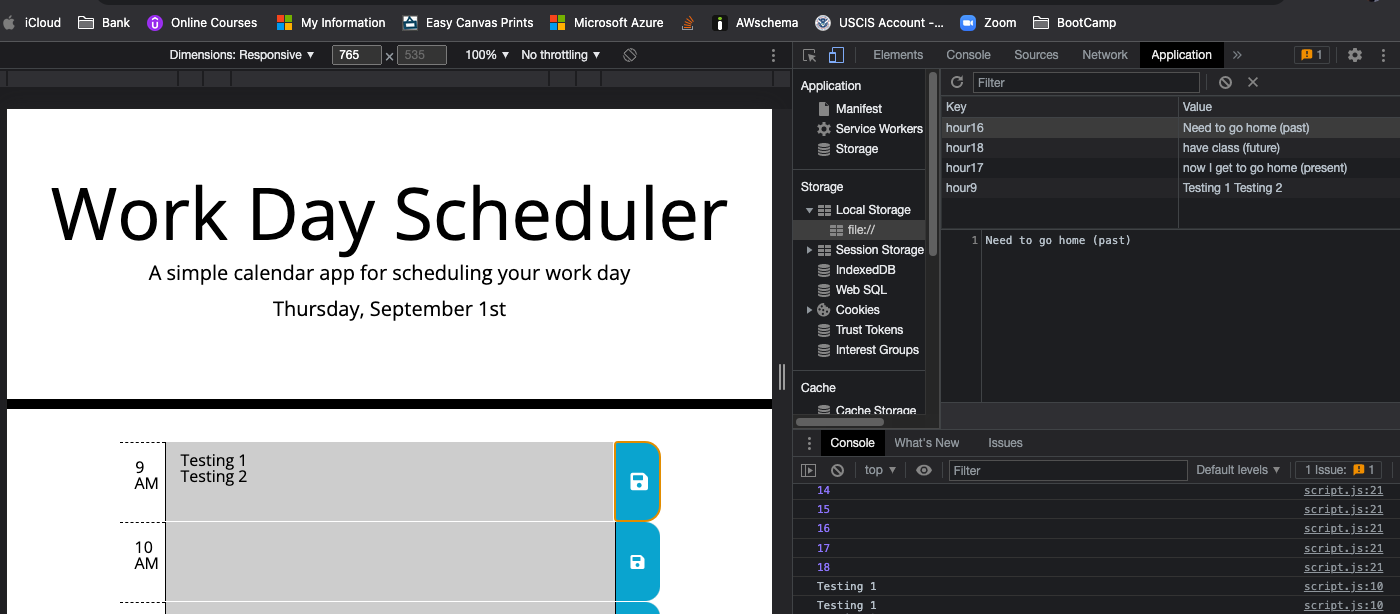
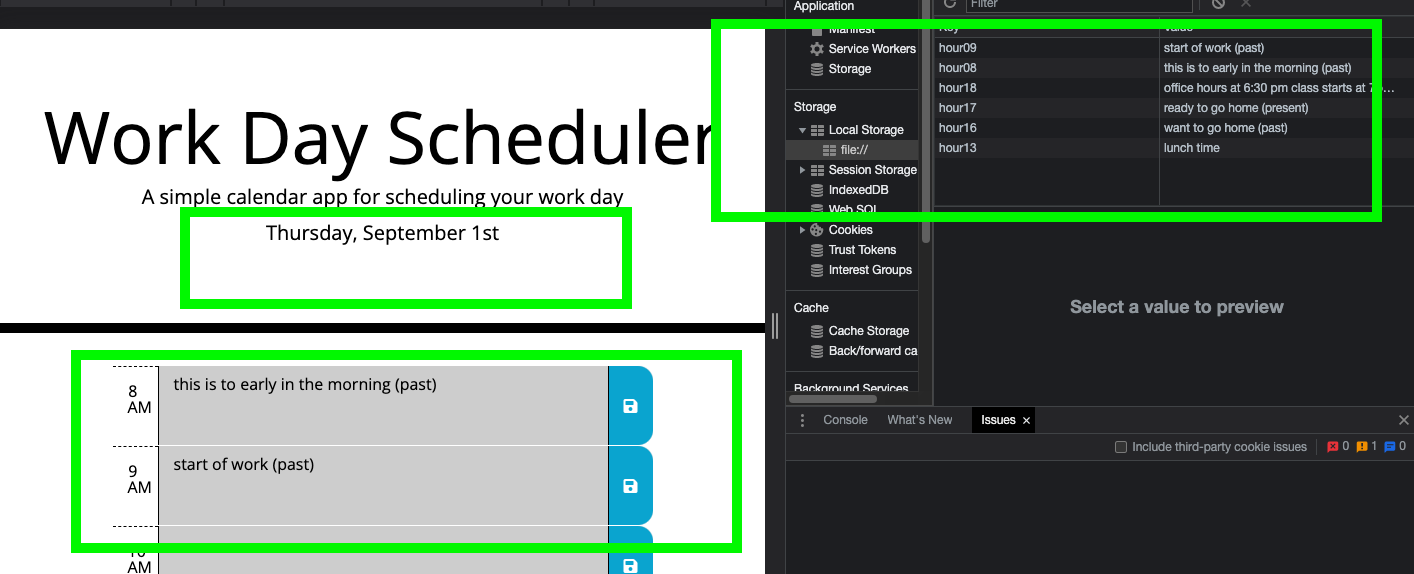
updated all notes

diff --git a/assests/js/script.js b/assests/js/script.js
@@ -6,25 +6,23 @@ $("#todayDate").text(moment().format("dddd, MMMM Do"));
 $(document).ready(function () {
   saveBtn.on("click", function () {
     // Getting values of content on textarea and time on div
-    var text = $(this).siblings(".description").val().trim();
-    console.log(text);
+    var userInput = $(this).siblings(".description").val().trim();
     var time = $(this).parent().attr("id");
     // Save to local storage
-    localStorage.setItem(time, text);
+    localStorage.setItem(time, userInput);
   });
   
   // Coloring time block based on time in comparison to current time
   function timeColorSort() {
     // Use the each() method to loop over blocks, parsing integer on id name and removing hour text with split
     $(".time-block").each(function () {
-      var blockHour = parseInt($(this).attr("id").split("hour")[1]);
-      console.log(blockHour);
+      var eachHourBlocks = parseInt($(this).attr("id").split("hour")[1]);
          // Check time and add/remove classes for background colors
-    if (blockHour < currentTime) {
+    if (eachHourBlocks < currentTime) {
       $(this).removeClass("future");
       $(this).removeClass("present");
       $(this).addClass("past");
-    } else if (blockHour === currentTime) {
+    } else if (eachHourBlocks === currentTime) {
       $(this).removeClass("past");
       $(this).removeClass("future");
       $(this).addClass("present");
@@ -43,7 +41,8 @@ $(document).ready(function () {
 
 function getSchduleData() {
   // Getting data from local storage if it exists and displaying on the time blocks
-  $("#hour9 .description").val(localStorage.getItem("hour9"));
+  $("#hour08 .description").val(localStorage.getItem("hour08"));
+  $("#hour09 .description").val(localStorage.getItem("hour09"));
   $("#hour10 .description").val(localStorage.getItem("hour10"));
   $("#hour11 .description").val(localStorage.getItem("hour11"));
   $("#hour12 .description").val(localStorage.getItem("hour12"));

diff --git a/index.html b/index.html
@@ -36,7 +36,12 @@
   </header>
   <!-- Timeblock container -->
   <div class="container">
-    <div class="time-block row" id="hour9">
+    <div class="time-block row" id="hour08">
+      <span class="hour col-1 pt-3">8 AM</span>
+      <textarea cols="110" class="col description"></textarea>
+      <button class="saveBtn col-1 border-top-0 border-bottom-0 border-right-0"><i class="fas fa-save"></i></button>
+    </div>
+    <div class="time-block row" id="hour09">
       <span class="hour col-1 pt-3">9 AM</span>
       <textarea cols="110" class="col description"></textarea>
       <button class="saveBtn col-1 border-top-0 border-bottom-0 border-right-0"><i class="fas fa-save"></i></button>
